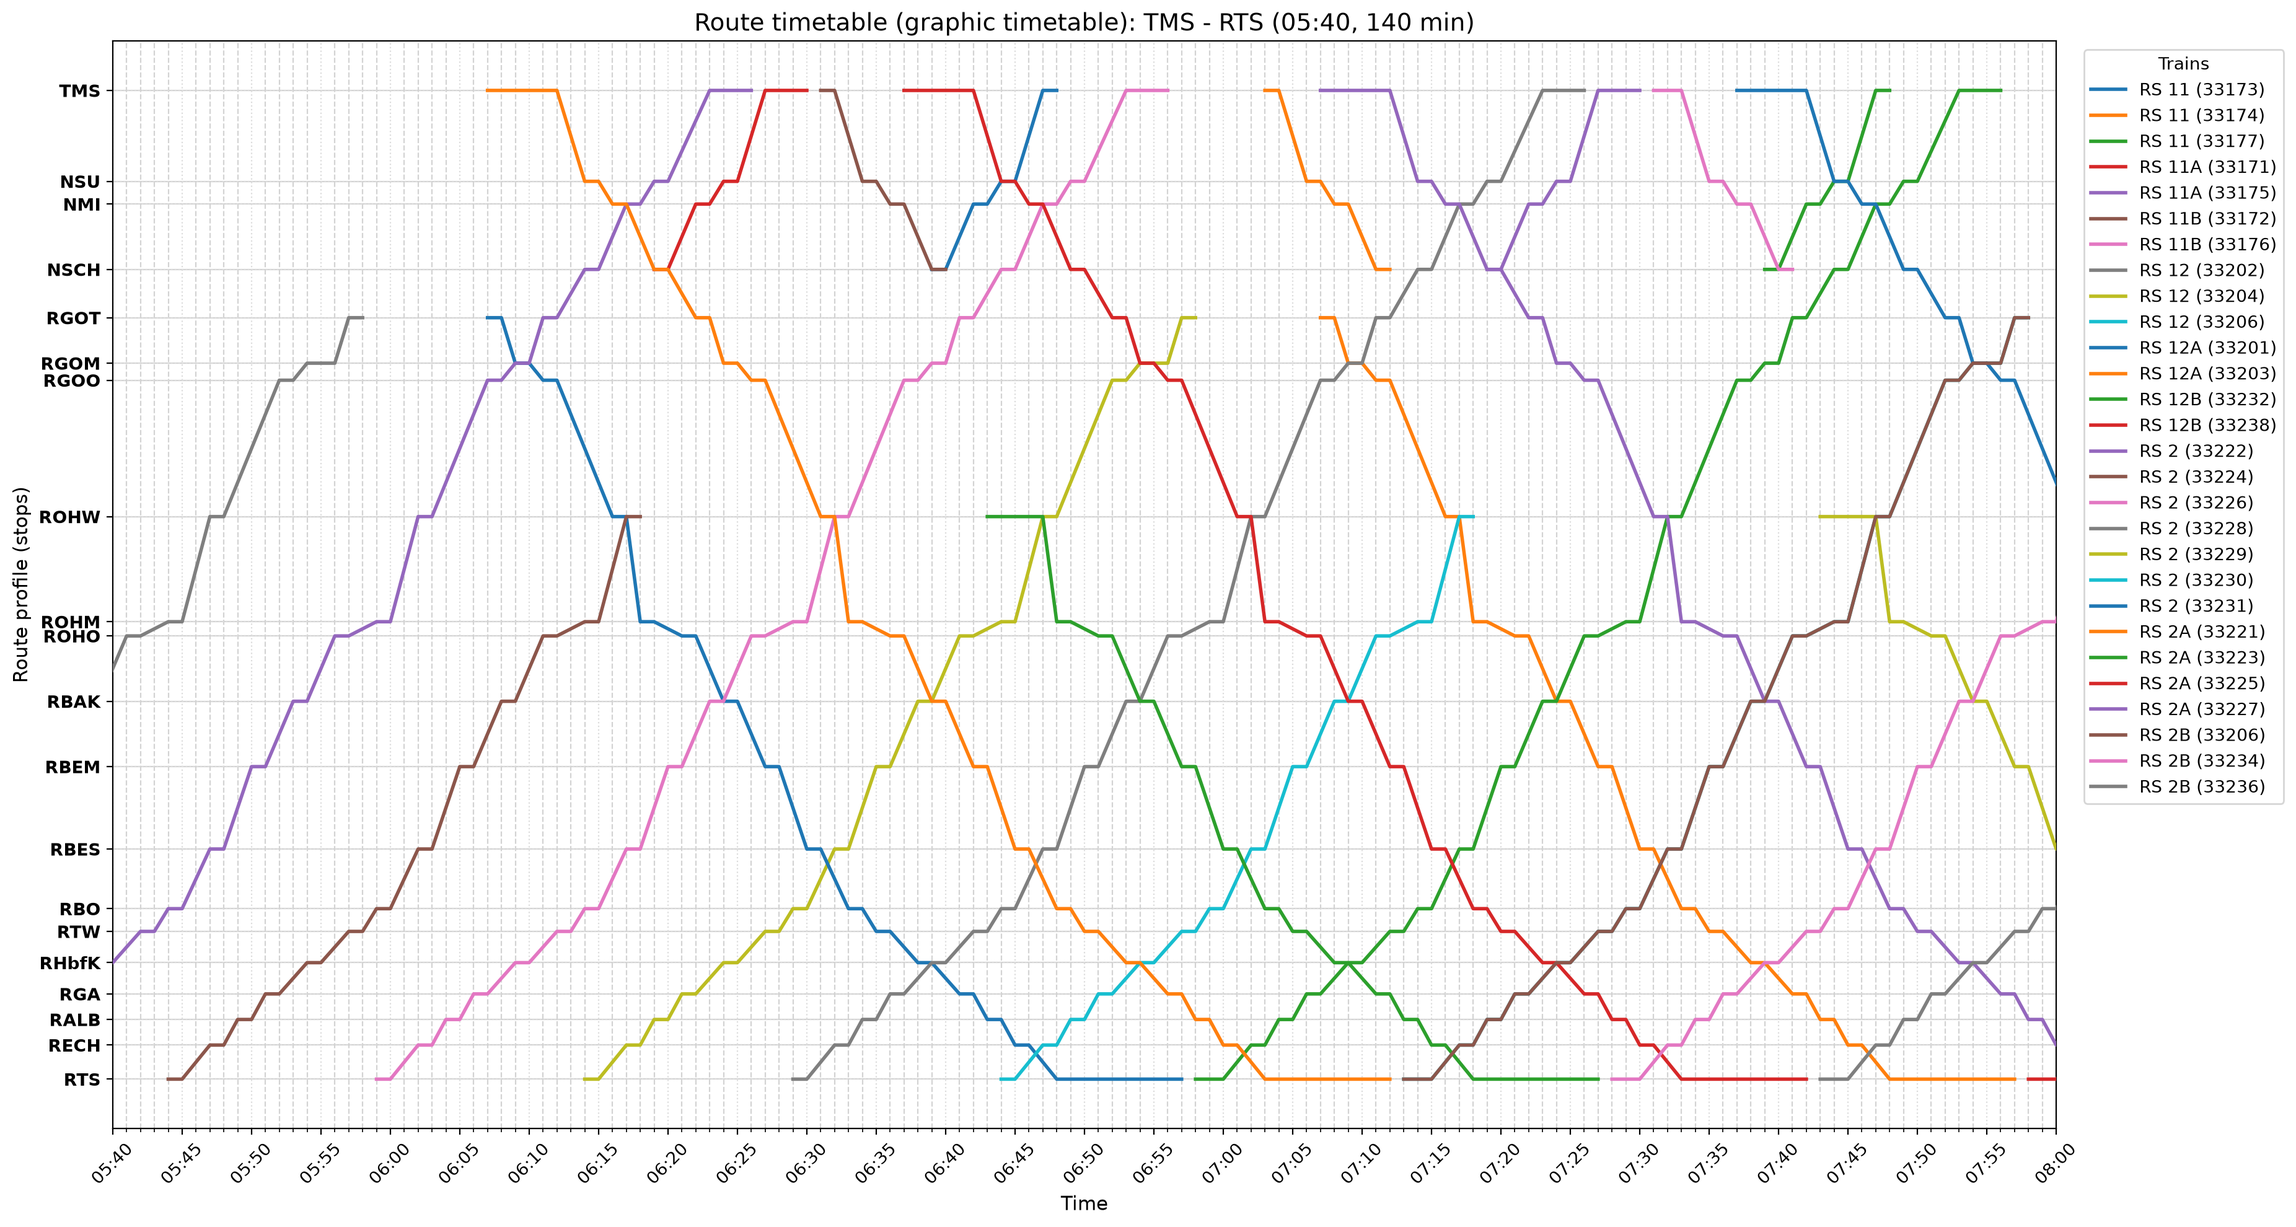
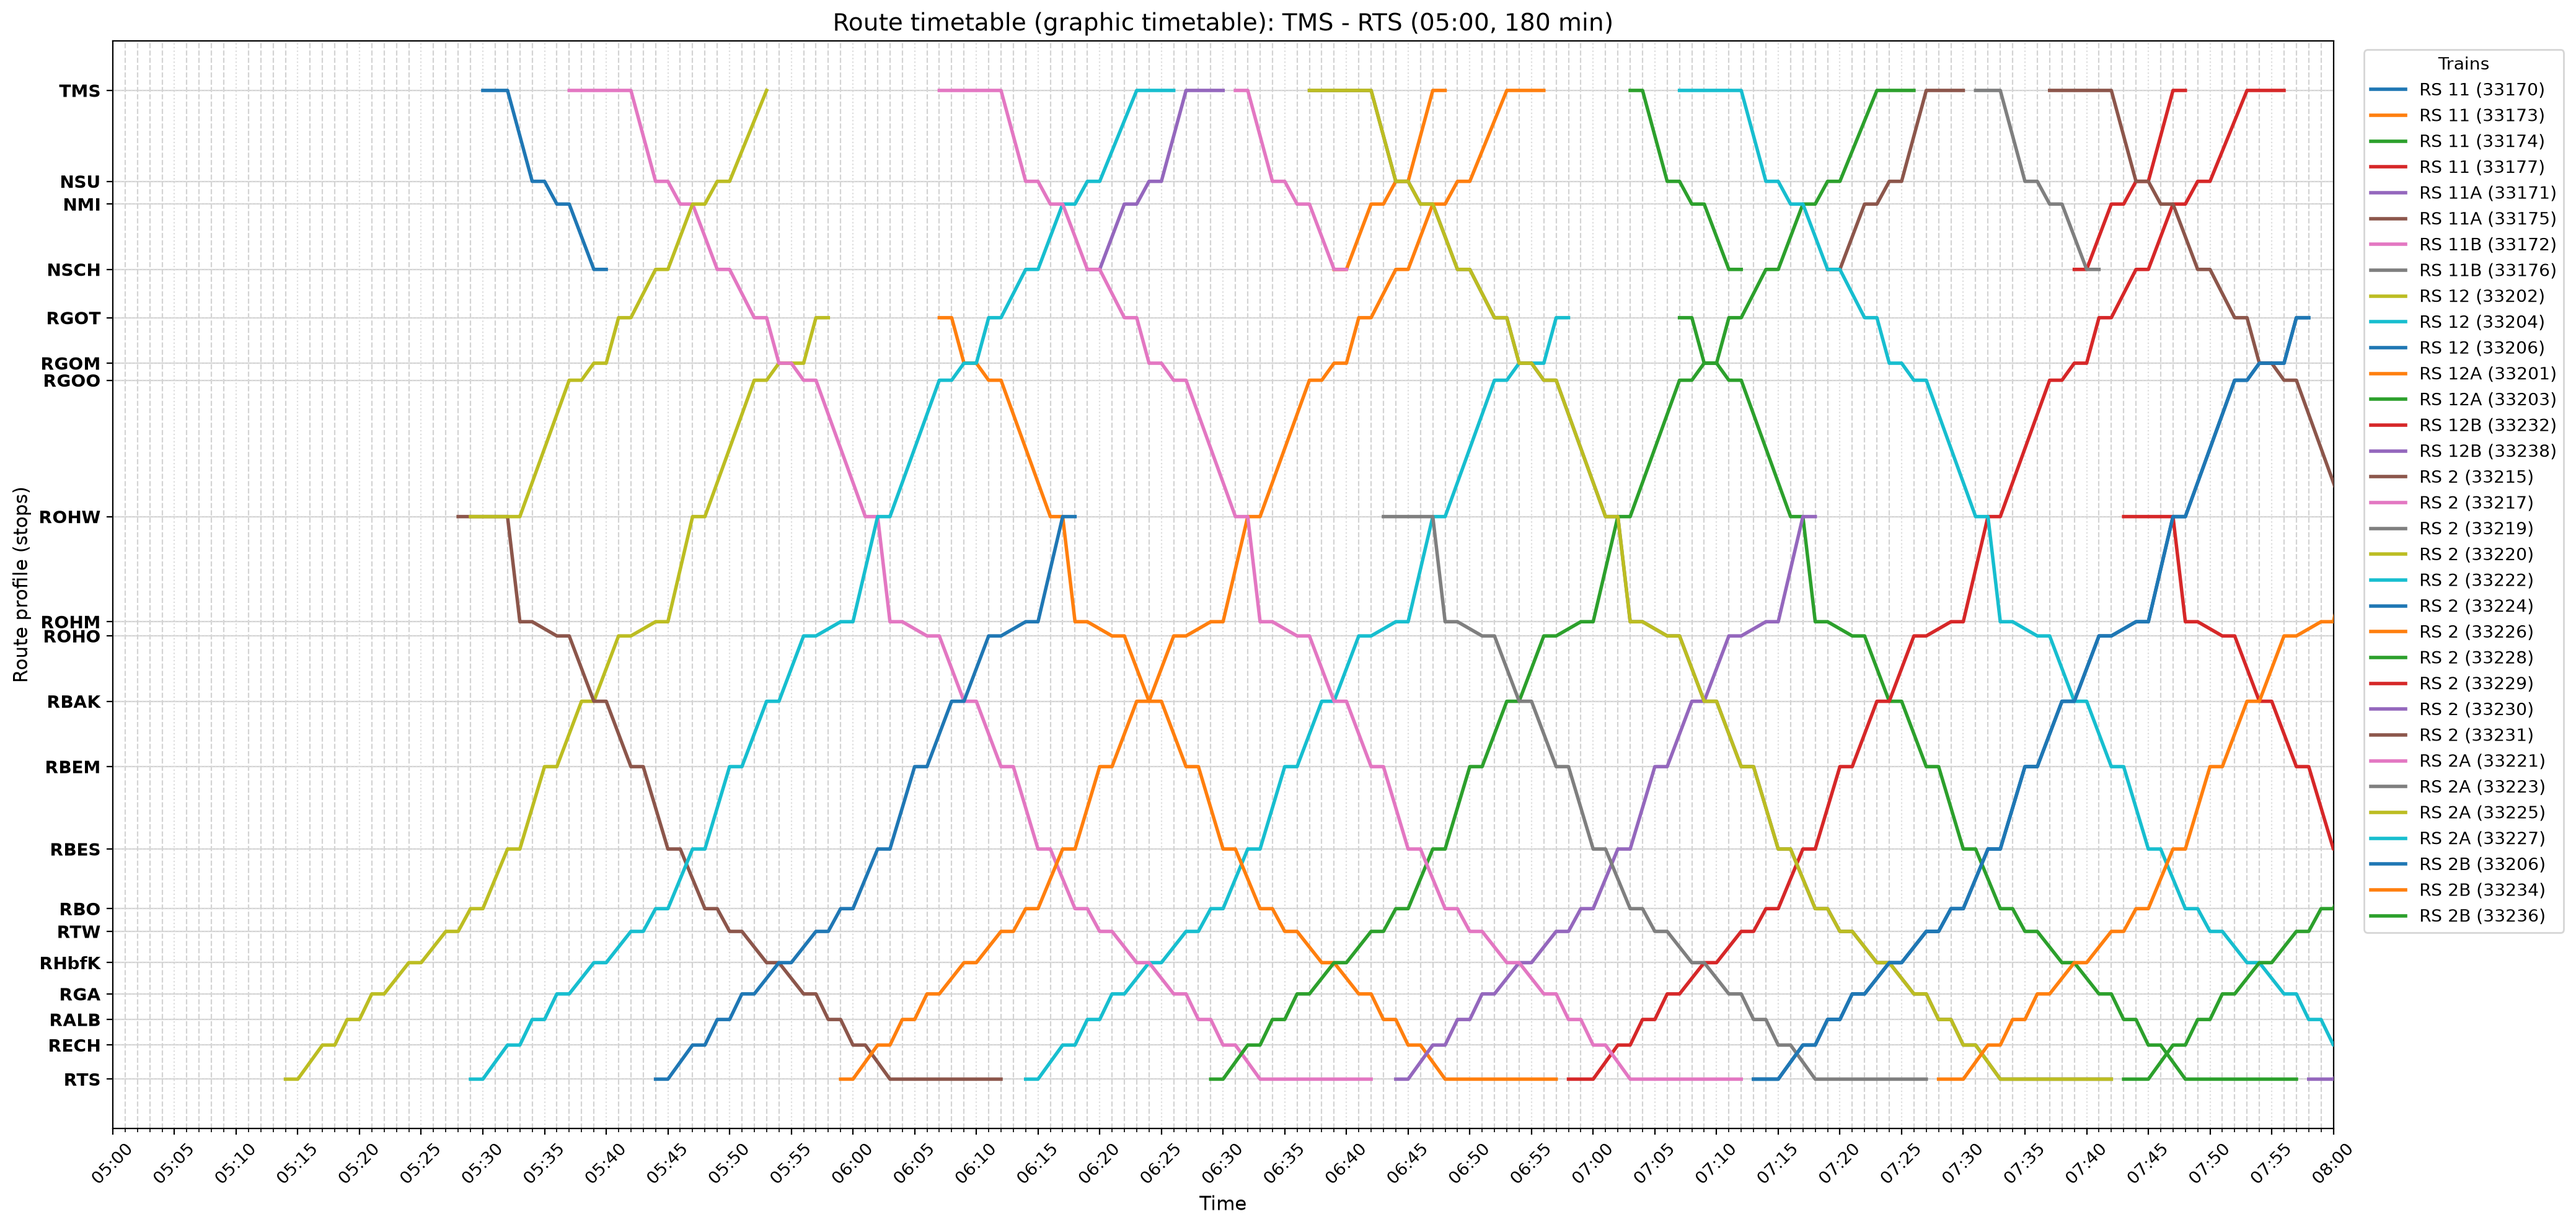
Add earlier half services on S1, 11 and 2

Changed region(s): [[0.0, 0.0, 1.0, 0.9859]]

diff --git a/main.py b/main.py
@@ -72,6 +72,50 @@ RS1_ALBSTADT_TUEBINGEN = {
     ]
 }
 
+RS1_HECHINGEN_TUEBINGEN = {
+    "name": "RS 1",
+    "stops": [
+        {"station_id": station_code_to_id("THEA"), "arrival": None, "departure": 0, "platform": 1},
+        {"station_id": station_code_to_id("THCH"), "arrival": 1, "departure": 5, "platform": 2},
+        {"station_id": station_code_to_id("TBOD"), "arrival": 3, "departure": 1, "platform": 2},
+        {"station_id": station_code_to_id("TBSB"), "arrival": 3, "departure": 1, "platform": 1},
+        {"station_id": station_code_to_id("TMS"), "arrival": 1, "departure": 1, "platform": 1},
+        {"station_id": station_code_to_id("TNEH"), "arrival": 2, "departure": 1, "platform": 2},
+        {"station_id": station_code_to_id("TDU"), "arrival": 3, "departure": 1, "platform": 1},
+        {"station_id": station_code_to_id("TST"), "arrival": 5, "departure": 1, "platform": 1},
+        {"station_id": station_code_to_id("TDD"), "arrival": 1, "departure": 1, "platform": 1},
+        {"station_id": station_code_to_id("TMUS"), "arrival": 1, "departure": 1, "platform": 1},
+        {"station_id": station_code_to_id("TT"), "arrival": 2, "departure": None, "platform": 11},
+    ]
+}
+
+RS1_HECHINGEN_ALBSTADT = {
+    "name": "RS 1",
+    "stops": [
+        {"station_id": station_code_to_id("THEA"), "arrival": None, "departure": 0, "platform": 1},
+        {"station_id": station_code_to_id("THCH"), "arrival": 1, "departure": 2, "platform": 3},
+        {"station_id": station_code_to_id("THST"), "arrival": 2, "departure": 1, "platform": 1},
+        {"station_id": station_code_to_id("THSU"), "arrival": 2, "departure": 1, "platform": 1},
+        {"station_id": station_code_to_id("TWEZ"), "arrival": 2, "departure": 1, "platform": 1},
+        {"station_id": station_code_to_id("TBIS"), "arrival": 2, "departure": 1, "platform": 2},
+        {"station_id": station_code_to_id("TBSH"), "arrival": 1, "departure": 1, "platform": 2},
+        {"station_id": station_code_to_id("TENG"), "arrival": 2, "departure": 1, "platform": 1},
+        {"station_id": station_code_to_id("TBG"), "arrival": 3, "departure": 1, "platform": 3},
+        {"station_id": station_code_to_id("TBGM"), "arrival": 1, "departure": 1, "platform": 2},
+        {"station_id": station_code_to_id("TBGS"), "arrival": 1, "departure": 1, "platform": 2},
+        {"station_id": station_code_to_id("TENO"), "arrival": 1, "departure": 1, "platform": 1},
+        {"station_id": station_code_to_id("TFRW"), "arrival": 1, "departure": 1, "platform": 2},
+        {"station_id": station_code_to_id("TFR"), "arrival": 1, "departure": 1, "platform": 1},
+        {"station_id": station_code_to_id("TLA"), "arrival": 2, "departure": 0},
+        {"station_id": station_code_to_id("TLAO"), "arrival": 1, "departure": 1, "platform": 1},
+        {"station_id": station_code_to_id("TLAU"), "arrival": 3, "departure": 1, "platform": 1},
+        {"station_id": station_code_to_id("TAEW"), "arrival": 3, "departure": 1, "platform": 2},
+        {"station_id": station_code_to_id("TAEM"), "arrival": 1, "departure": 1, "platform": 1},
+        {"station_id": station_code_to_id("TAE"), "arrival": 1, "departure": 1, "platform": 1},
+        {"station_id": station_code_to_id("TAET"), "arrival": 1, "departure": 1, "platform": 1},
+    ]
+}
+
 RS11_TUEBINGEN_MOESSINGEN = {
     "name": "RS 11",
     "stops": [
@@ -252,6 +296,21 @@ RS2_ROHW_RTS = {
         {"station_id": station_code_to_id("RALB"), "arrival": 1, "departure": 1, "platform": 2},
         {"station_id": station_code_to_id("RECH"), "arrival": 1, "departure": 1, "platform": 2},
         {"station_id": station_code_to_id("RTS"), "arrival": 2, "departure": None, "platform": 2},
+    ]
+}
+
+RS2_ROHW_MOESSINGEN = {
+    "name": "RS 2",
+    "stops": [
+        {"station_id": station_code_to_id("ROHA"), "arrival": None, "departure": 0, "platform": 1},
+        {"station_id": station_code_to_id("ROHW"), "arrival": 1, "departure": 4, "platform": 1},
+        {"station_id": station_code_to_id("RGOO"), "arrival": 4, "departure": 1, "platform": 1},
+        {"station_id": station_code_to_id("RGOM"), "arrival": 1, "departure": 1, "platform": 1},
+        {"station_id": station_code_to_id("RGOT"), "arrival": 1, "departure": 1, "platform": 1},
+        {"station_id": station_code_to_id("NSCH"), "arrival": 2, "departure": 1, "platform": 1},
+        {"station_id": station_code_to_id("NMI"), "arrival": 2, "departure": 1, "platform": 1},
+        {"station_id": station_code_to_id("NSU"), "arrival": 1, "departure": 1, "platform": 1},
+        {"station_id": station_code_to_id("TMS"), "arrival": 3, "departure": None, "platform": 3},
     ]
 }
 
@@ -715,6 +774,11 @@ RE17_TRAINS = [RE_3250, RE_3251, RE_3252, RE_3253, RE_3254, RE_3255, RE_3256, RE
 _RE17_TRAINS = [train for train in RE17_TRAINS if train._leg_parent is None]
 
 ## S1 Trains
+S1_33099 = Train.from_blueprint(33099, RS1_HECHINGEN_ALBSTADT, "RS 1", "5:05", "LPL")
+S1_33099.extend_stop(station_code_to_id("TBG"), 1)
+S1_33099.extend_stop(station_code_to_id("TFRW"), 1)
+S1_33099.extend_stop(station_code_to_id("TAEW"), 1)
+
 S1_33101 = Train.from_blueprint(33101, RS1_TUEBINGEN_ALBSTADT, "RS 1", "5:09", "LPL")
 S1_33101.set_origin(station_code_to_id("TTBW"), 2, platform=1)
 S1_33101.change_platform(station_code_to_id("TT"), 11)
@@ -815,6 +879,11 @@ S1_33123.extend_stop(station_code_to_id("TLAU"), 1)
 
 #######################
 
+S1_33098 = Train.from_blueprint(33098, RS1_HECHINGEN_TUEBINGEN, "RS 1", "5:03", "LPL")
+
+S1_33100 = Train.from_blueprint(33100, RS1_HECHINGEN_TUEBINGEN, "RS 1", "5:32", "LPL")
+S1_33100.extend_stop(station_code_to_id("TBOD"), 3) # overtake by RE
+
 S1_33102 = Train.from_blueprint(33102, RS1_ALBSTADT_TUEBINGEN, "RS 1", "5:20", "LPL")
 S1_33102.change_platform(station_code_to_id("TT"), 6)
 S1_33102.set_ending(station_code_to_id("TTBW"), 2)
@@ -886,7 +955,7 @@ S1_33122.extend_stop(station_code_to_id("TLA"), 1)
 S1_33122.change_platform(station_code_to_id("TLA"), 2)
 S1_33122.extend_stop(station_code_to_id("TBOD"), 1)
 
-S1_TRAINS = [S1_33101, S1_33102, S1_33103, S1_33104, S1_33105, S1_33106, S1_33107, S1_33108, S1_33109, S1_33110, S1_33111, S1_33112,
+S1_TRAINS = [S1_33098, S1_33099, S1_33100, S1_33101, S1_33102, S1_33103, S1_33104, S1_33105, S1_33106, S1_33107, S1_33108, S1_33109, S1_33110, S1_33111, S1_33112,
               S1_33113, S1_33114, S1_33115, S1_33116, S1_33117, S1_33118, S1_33119, S1_33120, S1_33121, S1_33122, S1_33123]
 
 _S1_TRAINS = [train for train in S1_TRAINS if train._leg_parent is None]  # Filter out trains that are legs of other trains
@@ -939,6 +1008,9 @@ S11_33189.set_ending(station_code_to_id("TMSA"), 1, platform=1)
 
 
 ########
+S11_33170 = Train.from_blueprint(33170, RS11_MOESSINGEN_TUEBINGEN, "RS 11", "5:30", "LPL")
+S11_33170.set_origin(station_code_to_id("TMSA"), 1, platform=1)
+S11_33170.extend_stop(station_code_to_id("TMS"), 1)
 
 S11_33172 = Train.from_blueprint(33172, RS11_MOESSINGEN_TUEBINGEN, "RS 11", "6:31", "LPL")
 S11_33172.change_platform(station_code_to_id("TMS"), 1)
@@ -974,7 +1046,7 @@ S11_33188 = Train.from_blueprint(33188, RS11_MOESSINGEN_TUEBINGEN, "RS 11", "10:
 S11_33188.set_origin(station_code_to_id("TMSA"), 1, platform=1)
 S11_33188.extend_stop(station_code_to_id("TMS"), 1)
 
-S11_TRAINS = [S11_33171, S11_33173, S11_33174, S11_33175, S11_33177, S11_33178, 
+S11_TRAINS = [S11_33170, S11_33171, S11_33173, S11_33174, S11_33175, S11_33177, S11_33178, 
                S11_33179, S11_33180, S11_33181, S11_33182, S11_33183, S11_33184, 
                S11_33185, S11_33186, S11_33187, S11_33188, S11_33189]
 
@@ -1020,6 +1092,15 @@ S12_TRAINS = [S12_33201, S12_33202, S12_33203, S12_33204, S12_33205, S12_33206, 
 _S12_TRAINS = [train for train in S12_TRAINS if train._leg_parent is None]
 
 ## S2 Trains
+S2_33215 = Train.from_blueprint(33215, RS2_ROHW_RTS, "RS 2", "5:27", "LPLPL")
+S2_33215.set_ending(station_code_to_id("RTS"), 1, True, platform=3, departure=7)
+
+S2_33217 = Train.from_blueprint(33217, RS2_MOESSINGEN_RTS, "RS 2", "5:36", "LPLPL")
+S2_33217.set_ending(station_code_to_id("RTS"), 1, True, platform=3, departure=7)
+
+S2_33219 = Train.from_blueprint(33219, RS2_MOESSINGEN_RTS, "RS 2", "6:36", "LPLPL")
+S2_33219.set_ending(station_code_to_id("RTS"), 1, True, platform=3, departure=7)
+
 S2_33221 = Train.from_blueprint(33221, RS2_MOESSINGEN_RTS, "RS 2", "6:06", "LPLPL")
 S2_33221.set_ending(station_code_to_id("RTS"), 1, True, platform=3, departure=7)
 S2_33221.add_leg(S12_33206)
@@ -1062,6 +1143,8 @@ S2_33245 = Train.from_blueprint(33245, RS2_MOESSINGEN_RTS, "RS 2", "10:36", "LPL
 S2_33245.set_ending(station_code_to_id("RTS"), 1, True, platform=3, departure=7)
 
 ####################
+
+S2_33220 = Train.from_blueprint(33220, RS2_ROHW_MOESSINGEN, "RS 2", "5:28", "LPLPL")
 
 S2_33222 = Train.from_blueprint(33222, RS2_RTS_MOESSINGEN, "RS 2", "5:28", "LPLPL")
 S2_33222.set_origin(station_code_to_id("PFAB"), 10, platform=2)
@@ -1113,7 +1196,7 @@ S2_33250 = Train.from_blueprint(33250, RS2_RTS_MOESSINGEN, "RS 2", "10:27", "LPL
 S2_33250.extend_stop(station_code_to_id("RTS"), 2)
 
 
-S2_TRAINS = [S2_33221, S2_33222, S2_33223, S2_33224, S2_33225, S2_33226, S2_33227,
+S2_TRAINS = [S2_33215, S2_33217, S2_33219, S2_33220, S2_33221, S2_33222, S2_33223, S2_33224, S2_33225, S2_33226, S2_33227,
               S2_33228, S2_33229, S2_33230, S2_33231, S2_33232, S2_33233, S2_33234, S2_33235, S2_33236, S2_33237,
               S2_33238, S2_33239, S2_33240, S2_33241, S2_33242, S2_33243, S2_33244, S2_33245, S2_33246, S2_33248, S2_33250]
 
@@ -1126,10 +1209,10 @@ _S2_TRAINS = [train for train in S2_TRAINS if train._leg_parent is None]
 TRAINS = [
     *_MEX_TRAINS,
     *_RE17_TRAINS,
-    #*_S1_TRAINS,
-    #*_S11_TRAINS,
-    #*_S12_TRAINS,
-    #*_S2_TRAINS
+    *_S1_TRAINS,
+    *_S11_TRAINS,
+    *_S12_TRAINS,
+    *_S2_TRAINS
 ]
 
 
@@ -1140,19 +1223,14 @@ def main():
     if timetable_df.empty:
         print(f"The worksheet '{selected_section}' does not yet contain any timetable data.")
         return
-    #plot_route_timetable(timetable_df, selected_section, "05:40", 140)
-    #plot_route_timetable(timetable_df, "Tübingen - Betzingen", "05:40", 140)
+    #plot_route_timetable(timetable_df, selected_section, "05:00", 180)
+    #plot_route_timetable(timetable_df, "TMS - RTS", "05:00", 180)
     #generate_line_timetable(TRAINS, "Tübingen - Betzingen", "05:00", 160)
     #generate_line_timetable(TRAINS, "RT Hbf K / B - RT Süd", "05:40", 140)
-    #generate_line_timetable(TRAINS, "TMS - RTS", "5:40", 140)
+    #generate_line_timetable(TRAINS, "TMS - RTS", "5:00", 180)
     # plot_station_departures(TRAINS, "RTS", "05:20", 180)
-    #plot_station_departures(TRAINS, "TT", "05:00", 180)
-    print(MEX_19302.timetable())
-    print(MEX_19304.timetable())
-    print(MEX_19306.timetable())
-    print(MEX_19316.timetable())
-    print(MEX_19322.timetable())
-
+    #plot_station_departures(TRAINS, "TT", "06:00", 180)
+    print(S1_33101.timetable())
     export_trains_txt(TRAINS)
 
 

diff --git a/RSNA.md b/RSNA.md
@@ -601,6 +601,14 @@ TAT -> TAE (1min) -> TAEM (1min) -> TAEW (1min) -> TALT (3min) -> TALO (2min, kn
 - Abfahrt in RTS immer :14 (Contract: 13)
 - Ending TTBW (ggf. weiter als Leerfahrt nach TTG und dann S31?)
 
+### Concat
+- RS 11 (-> TMS) :02 wendet auf RS 11 in TMS :32 (Gleis 1)
+  - RS 11 :32 (-> TT) wendet auf RS 11 :02 (Gleis 11)
+- andere RS 11 (-> TMS) :21 wendet _aus_ RS 12 (Gleis 11)
+  - dann in TMS in Abstellung (ggf. Gleiswechsel auf 3 in TMS?)
+- RS 12 (-> RTS) :50 wendet _aus_ RS 11 (Ankunft :29) (Abstellung nötig bzw. Gleis 11 freimachen, ggf. falls Zug zu lange -> neuer Contract?)
+- RS 1 wie Mex überschlagend auf sich selber wenden -> Rangieren iwo hin (maybe BW?) nötig für die halbe Stunde weil Gleis 11 gebraucht wird
+
 ### RS 2 (nach TMS)
 - 20min Takt in HVZ
 - Abfahrten in RTS :00 :30, :45 (bis Ohmenhausen West) (Contract :58, :28, :44)
